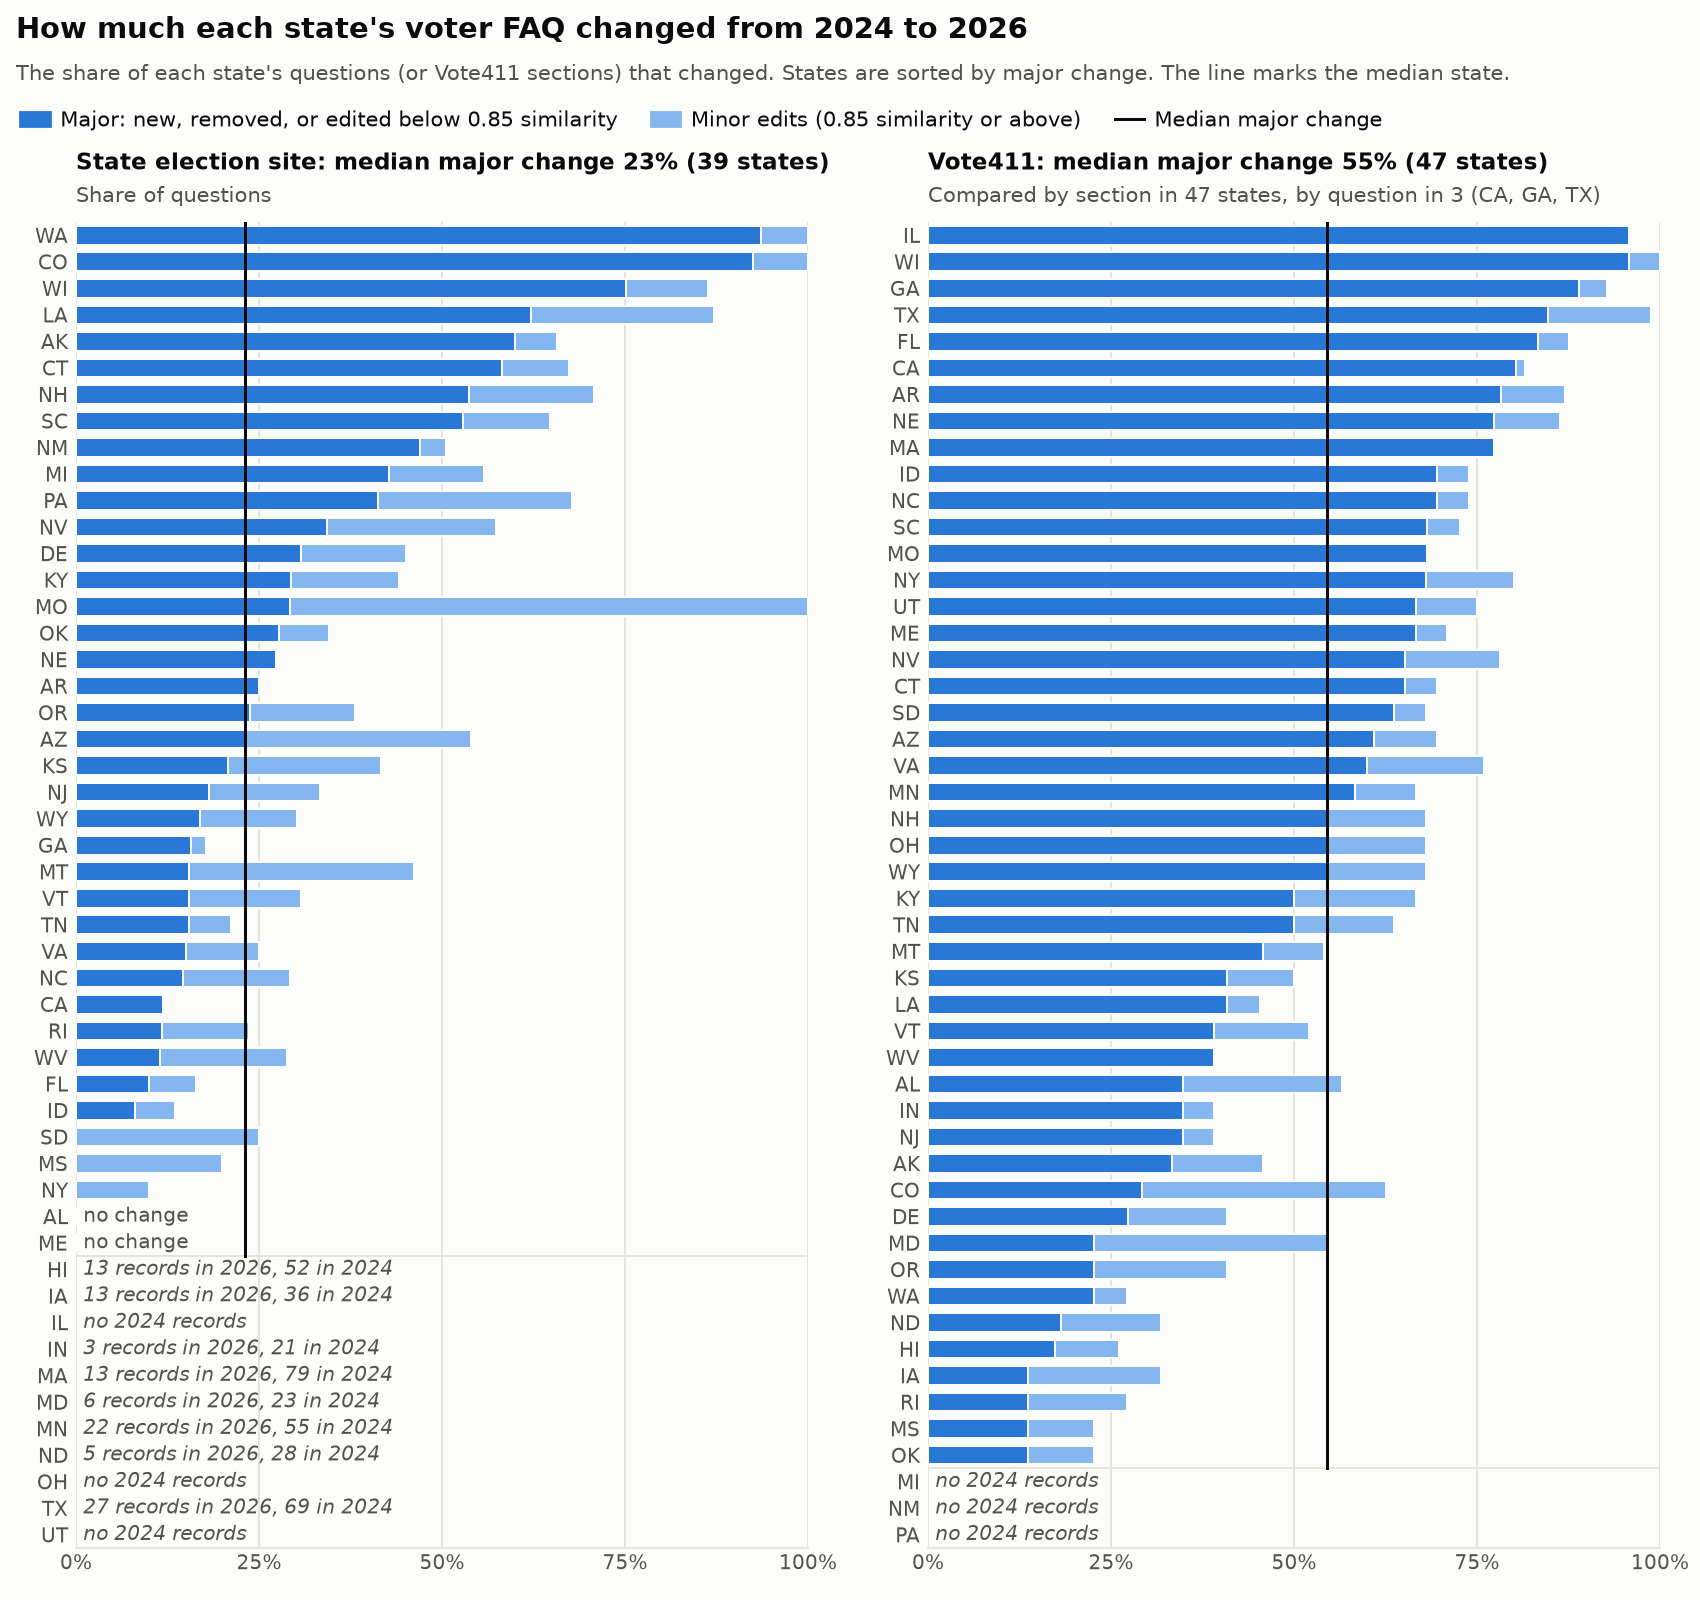
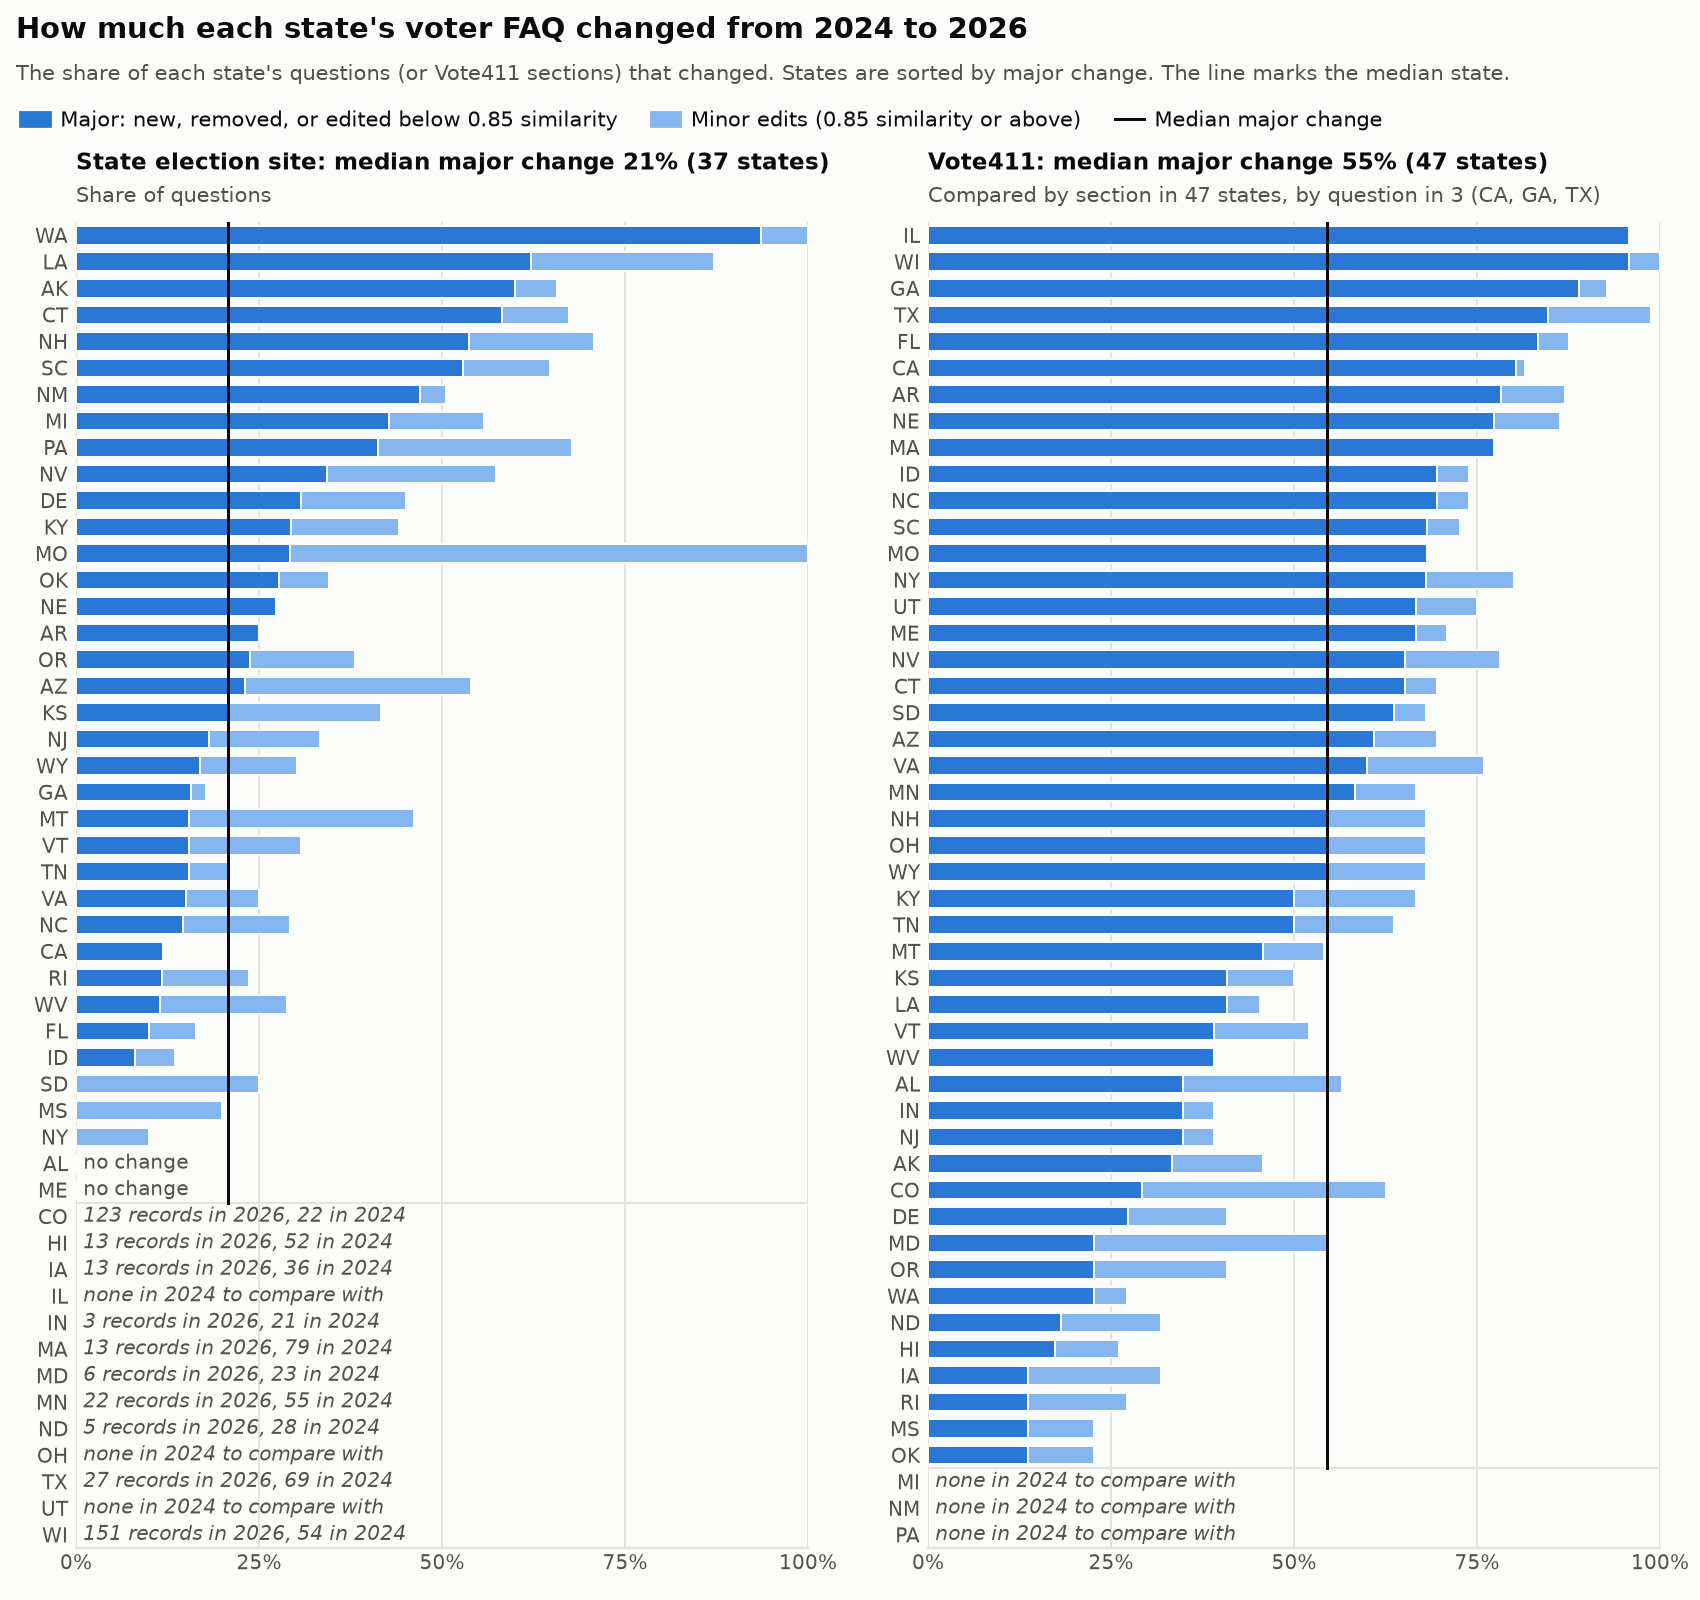
data: rerun 2026 analysis; Colorado and Wisconsin state-site rates left blank (over twice the 2024 count)
State-site median major change is 21% over 37 states (was 23% over 39). Vote411 is unchanged.

diff --git a/data/2026/quality/quality_summary.md b/data/2026/quality/quality_summary.md
@@ -15,6 +15,7 @@ Generated by `quality_report.py` from `data/2026/dataset/`. Every finding is a r
 | `flagged_page` | 32 | 16 | Saved state-site pages the parser flagged: no Q&A found, or far fewer records than the baseline had for the same URL. |
 | `missing_source` | 0 | 0 | States with no records from a source. |
 | `below_baseline` | 8 | 8 | States whose record count for a source is below 50% of the baseline cycle's count. |
+| `above_baseline` | 2 | 2 | States whose state-site record count is more than 2 times the baseline cycle's count. Their change rates are left blank, because most of the extra questions come from pages the baseline cycle did not include. |
 | `dropped_non_faq` | 11 | 6 | State-site records left out by the non-FAQ rules in settings.toml. |
 | `short_answer` | 12 | 10 | Answers shorter than 25 characters. |
 | `long_answer` | 7 | 4 | Answers longer than 6000 characters, which can mean an answer ran on into later content. |
@@ -175,6 +176,11 @@ Findings per state: AK 2, CO 1, CT 2, DE 2, HI 6, IA 2, IN 2, KY 1, MA 2, MD 1, 
 - MN, state site: 22 records; the 2024 baseline had 55
 - ND, state site: 5 records; the 2024 baseline had 28
 - TX, state site: 27 records; the 2024 baseline had 69
+
+## above_baseline
+
+- CO, state site: 123 records; the 2024 baseline had 22
+- WI, state site: 151 records; the 2024 baseline had 54
 
 ## dropped_non_faq
 
